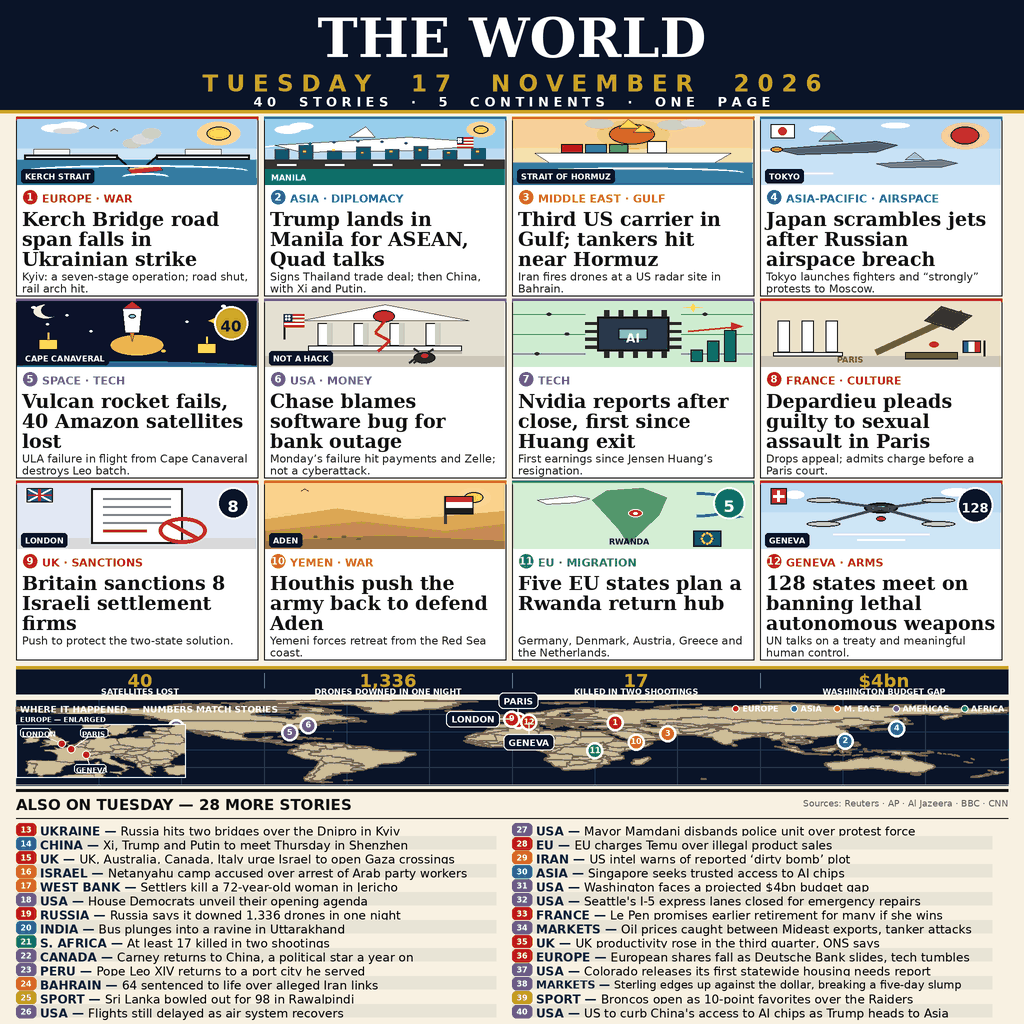
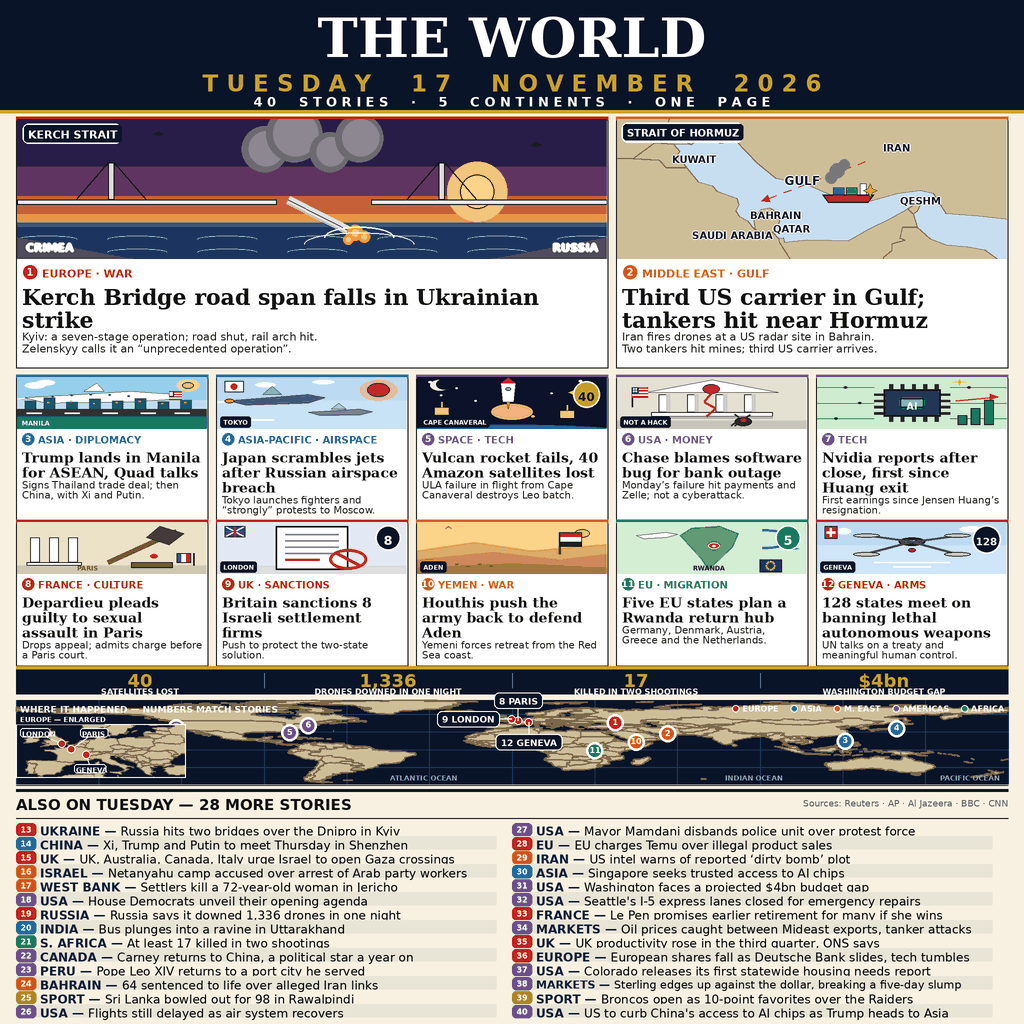
Round 8: study-top-10 + hero format — 2 large heroes (Kerch dusk + Gulf mini-map) + 10 small cards, same 40 verified stories

diff --git a/README.md b/README.md
@@ -4,13 +4,13 @@
 [![rank](https://make.fun/badge/news-image-20261117/Fpeazy/news-image-20261117/rank.svg)](https://make.fun/bounty/news-image-20261117/leaderboard?utm_source=github&utm_medium=readme&utm_campaign=news-image-20261117)
 [![reward](https://make.fun/badge/news-image-20261117/Fpeazy/news-image-20261117/reward.svg)](https://make.fun/bounty/news-image-20261117?utm_source=github&utm_medium=readme&utm_campaign=news-image-20261117)
 
-**THE WORLD** — a programmatic newspaper front page that sums up Tuesday 17 November 2026 in one image: **40 stories, 5 continents, one page**. Round 7 (this version, the layout + HD map + colour round): twelve richly illustrated cards in a 4×3 grid — the format the live leaderboard's top entries use — each with its own layered scene, small correct flags, and in-art data numbers only where verified (40 satellites, 5 EU states, 8 firms, 128 states), a bold 19 pt headline and an 11 pt one-line deck, followed by a real-coastline world map with all twelve pictured stories pinned at their true locations (numbered dots with white halos, a magnified Europe inset for the crowded London/Paris/Geneva cluster, a region legend), a "THE DAY IN NUMBERS" strip (40 satellites lost · 1,336 drones downed in one night · 17 killed in two shootings · $4bn Washington budget gap), and 28 more stories below the fold, numbered 13–40 with region-coloured chips at 12 pt. The whole page is drawn at 2048×2048 and LANCZOS-downscaled to 1024 for HD text and coastlines; the map uses higher-detail coastline data (10,046 points), tan land on a deep-navy band, and a saturated disciplined region palette — deep navy masthead with white serif title and gold date, one dominant region colour per card. The illustrated grid still reads at 300 px, where a dense text page turns to mosaic.
+**THE WORLD** — a programmatic newspaper front page that sums up Tuesday 17 November 2026 in one image: **40 stories, 5 continents, one page**. Round 8 (this version, the study-top-10 + hero-format round): two LARGE hero cards — the Kerch Bridge lead in a dusk scene with a real gap where the road span fell, and the Strait of Hormuz with a Gulf mini-map illustration (country labels, tanker, dashed drone path to Bahrain) — plus ten smaller illustrated cards in a 5×2 grid, each with its own layered scene, small correct flags, and in-art data numbers only where verified (40 satellites, 5 EU states, 8 firms, 128 states), a bold 22 pt hero headline and 14 pt small-card headlines with two-line verified decks, followed by a real-coastline world map with all twelve pictured stories pinned at their true locations (numbered dots with white halos; the crowded London/Paris/Geneva cluster uses small true-position dots with numbered name pills plus a magnified Europe inset, a region legend, and ocean labels), a "THE DAY IN NUMBERS" strip (40 satellites lost · 1,336 drones downed in one night · 17 killed in two shootings · $4bn Washington budget gap), and 28 more stories below the fold, numbered 13–40 with region-coloured chips at 12 pt. The whole page is drawn at 2048×2048 and LANCZOS-downscaled to 1024 for HD text and coastlines; the map uses higher-detail coastline data (10,046 points), tan land on a deep-navy band, and a saturated disciplined region palette — deep navy masthead with white serif title and gold date, one dominant region colour per card. At 300 px the page now reads as date + two big hero blocks + map, the same first-glance structure as the leaderboard's top entries.
 
 ## The day in twelve pictures
 
 1. **Kerch Bridge** — Ukraine struck the Kerch Bridge to Crimea; a road span fell. Zelenskyy called it "an unprecedented operation". Russia hit back at two bridges over the Dnipro in Kyiv.
-2. **Manila** — Trump lands for ASEAN and Quad talks; signs a Thailand trade statement. Xi, Trump and Putin are to meet Thursday in Shenzhen.
-3. **Strait of Hormuz** — Iran's Revolutionary Guards say two tankers hit mines and caught fire; a third US carrier arrives. Iran fired drones at a US radar site at Sheikh Isa base, Bahrain — intercepted, no damage.
+2. **Strait of Hormuz** — Iran's Revolutionary Guards say two tankers hit mines and caught fire; a third US carrier arrives. Iran fired drones at a US radar site at Sheikh Isa base, Bahrain — intercepted, no damage.
+3. **Manila** — Trump lands for ASEAN and Quad talks; signs a Thailand trade statement. Xi, Trump and Putin are to meet Thursday in Shenzhen.
 4. **Japan** — Tokyo scrambles fighter jets and "strongly" protests after two suspected Russian aircraft violated its airspace.
 5. **Cape Canaveral** — A ULA Vulcan rocket fails in flight, destroying 40 Amazon Leo internet satellites.
 6. **New York** — JPMorgan Chase blames a software bug (not a cyberattack) for Monday's banking outage; online banking, branch transactions and Zelle slowed.
